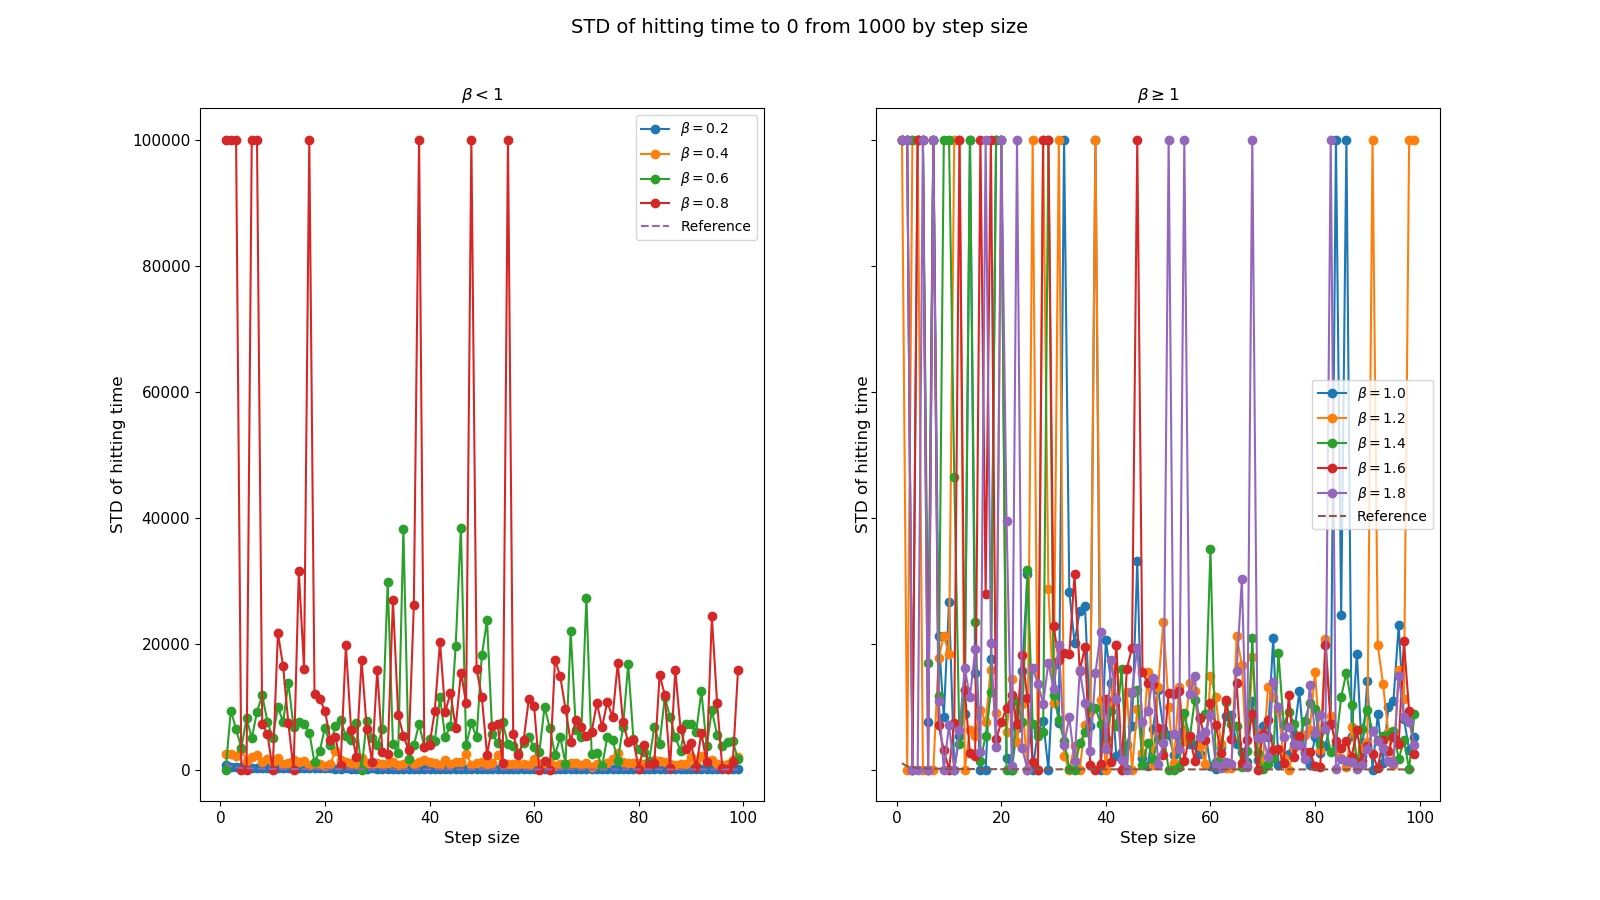
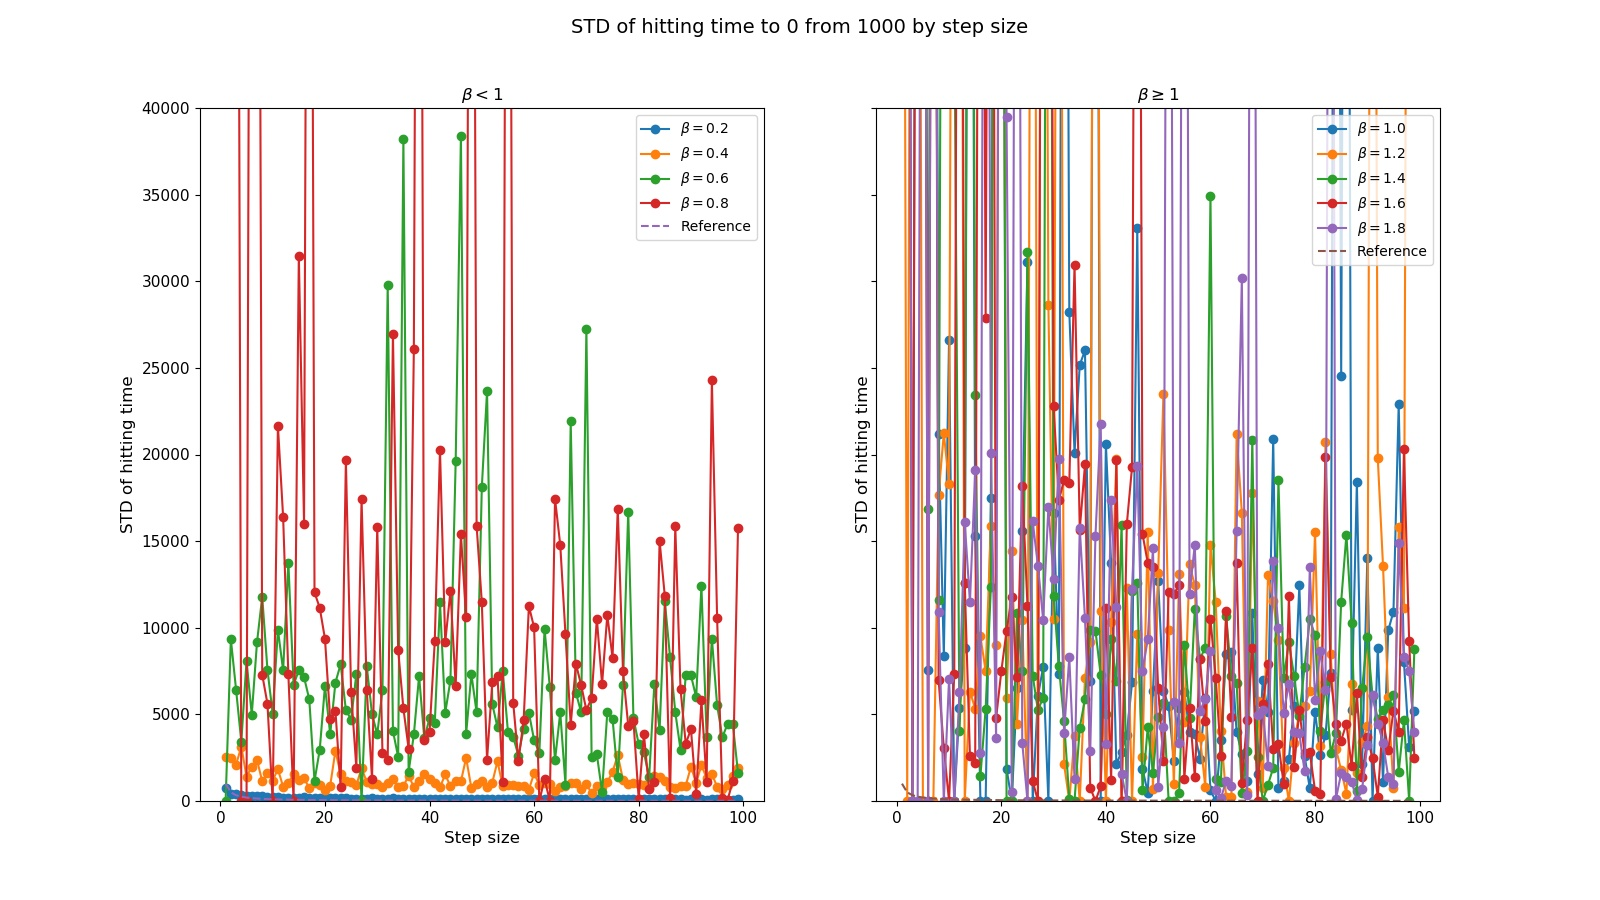
Fixed plot bounds

Changed region(s): [[0.5625, 0.1244, 0.9062, 0.9022], [0.0625, 0.0933, 0.4688, 0.9022]]

diff --git a/src/varstep/plotmaker.py b/src/varstep/plotmaker.py
@@ -2,7 +2,7 @@ from numpy import arange, load
 import matplotlib.pyplot as plt
 
 # set parameters here
-init_pos = 1000
+init_pos = 100
 
 # set some indices
 means_hitting_time = load('data/means_from_{0}.npy'.format(init_pos))
@@ -34,6 +34,7 @@ for splot in m_splots:
     splot.set_xlabel('Step size', fontsize=label_fontsize)
     splot.set_ylabel('Mean hitting time', fontsize=label_fontsize)
     splot.tick_params(axis='both', labelsize=axis_fontsize)
+    splot.set_ybound(0,20000)
 m_splots[0].set_title(r'$\beta < 1$', fontsize=label_fontsize)
 m_splots[1].set_title(r'$\beta \geq 1$', fontsize=label_fontsize)
 
@@ -56,6 +57,7 @@ for splot in s_splots:
     splot.set_xlabel('Step size', fontsize=label_fontsize)
     splot.set_ylabel('STD of hitting time', fontsize=label_fontsize)
     splot.tick_params(axis='both', labelsize=axis_fontsize)
+    splot.set_ybound(0,20000)
 s_splots[0].set_title(r'$\beta < 1$', fontsize=label_fontsize)
 s_splots[1].set_title(r'$\beta \geq 1$', fontsize=label_fontsize)
 
